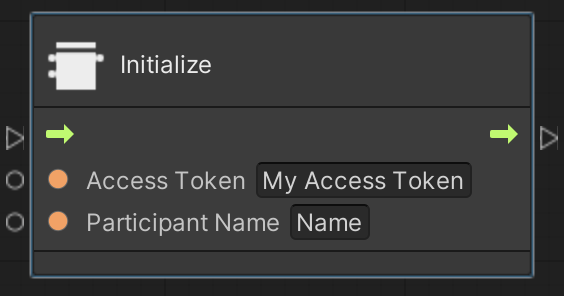
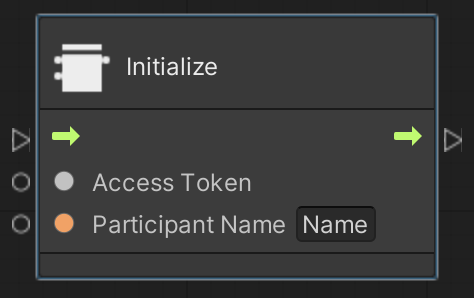
Modified GetToken and Initialize, Added set position and direction

Changed region(s): [[0.0, 0.0304, 1.0, 0.9426]]

diff --git a/docs/documentation/unity/visualscripting/nodes.md b/docs/documentation/unity/visualscripting/nodes.md
@@ -2,7 +2,7 @@
 
 Visual Scripting in Unity allows creating logic for virtual world applications using visual, node-based graphs without writing code. The Dolby.io Virtual World plugin is compatible with Unity Visual Scripting 2021. The plugin can be used with Visual Scripting and C# scripting at the same time. 
 
-Before using the plugin for visual scripting, make sure that you added the .NET SDK to Unity and initialized the SDK using the [Initializing](../unity.md#initialization) procedure.
+Before using the plugin for visual scripting, make sure that you added the .NET SDK to Unity and initialized the SDK using the [Initializing](../unity.md) procedure.
 
 ### Nodes
 
@@ -25,7 +25,7 @@ Initialize the SDK and connects to the Dolby.io platform. During onboarding and 
 
 | Name  | Direction | Type | Description  |
 |---|:---|:---|:---|
-| **Access Token** | Input | String or function| The [access token](xref:DolbyIO.Comms.DolbyIOSDK.InitAsync(System.String,DolbyIO.Comms.RefreshTokenCallBack)) provided by your backend server. Alternatively, pass in the output from the [GetToken](#gettoken) node.|
+| **Access Token** | Input | String or Function| The [access token](xref:DolbyIO.Comms.DolbyIOSDK.InitAsync(System.String,DolbyIO.Comms.RefreshTokenCallBack)) provided by your backend server, linked to the ouput of a String node. Alternatively, pass in the output from the [GetToken](#gettoken) node.|
 | **Participant Name** | Input | String | The [name](xref:DolbyIO.Comms.UserInfo.Name) of the local participant. |
 
 ---
@@ -35,14 +35,14 @@ A helper node that retrieves a Client Access Token directly from within the Unit
 
 >Using this node effectively distributes the permanent app credential with your Unity application which is not safe for production deployment. Follow our security best practice [here](https://docs.dolby.io/communications-apis/docs/guides-client-authentication) to setup a server through which you can acquire a temporary client access token. 
 <div style="text-align:left">
-    <img style="padding:25px 0" src="~/images/nodes/init.png" width="300px">
+    <img style="padding:25px 0" src="~/images/nodes/get-token.png" width="300px">
 </div>
 
 | Name  | Direction | Type | Description  |
 |---|:---|:---|:---|
 | **App Key** | Input | String| The app key from the Dolby.io dashboard. |
 | **App Secret** | Input | String | The app secret from the Dolby.io dashboard. |
-| **Token** | Output | String | The generated client access token, expires in 1 hour. |
+| **Token Action** | Output | System.Func<string> | A function that returns the access token. Can be linked to the initialize node. |
 
 ---
 ### Spatial Conference
@@ -83,32 +83,6 @@ Allows muting a participant. This node works for both local participant (e.g., m
 |---|:---|:---|:---|
 | **ParticipantId** | Input | String| The ID of the participant who should be muted. If the ID is not provided, the node mutes the local participant|
 | **Muted** | Input | Boolean | The required mute state.| 
-
----
-### Local Player Position
-
-Allows setting the position of the local player.
-<div style="text-align:left">
-    <img style="padding:25px 0" src="~/images/nodes/local-position.png" width="250px">
-</div>
-
-| Name  | Direction | Type | Description  |
-|---|:---|:---|:---|
-| **Position** | Input | Vector3| The [position](xref:DolbyIO.Comms.Services.ConferenceService.SetSpatialPositionAsync(System.String,System.Numerics.Vector3)) of the player.|
-| **Direction** | Input | Vector3 | The [direction](xref:DolbyIO.Comms.Services.ConferenceService.SetSpatialDirectionAsync(System.Numerics.Vector3)) that the player should be facing.| 
-
----
-### Remote Player Position
-
-Set the remote participant's spatial audio position for the local participant. This is only applicable when the spatial audio style was set as `individual` in the Spatial Conference node where each client needs to inform the server how they would like the platform to render the remote participant's audio for them.  
-<div style="text-align:left">
-    <img style="padding:25px 0" src="~/images/nodes/remote-position.png" width="250px">
-</div>
-
-| Name  | Direction | Type | Description  |
-|---|:---|:---|:---|
-| **Position** | Input | Vector3| The [position](xref:DolbyIO.Comms.Services.ConferenceService.SetSpatialPositionAsync(System.String,System.Numerics.Vector3)) of the player.|
-
 
 ---
 ### Get Participants
@@ -160,3 +134,39 @@ Configures active audio output as the specified device.
 | Name  | Direction | Type | Description  |
 |---|:---|:---|:---|
 | **Audio Device** | Input | Audio Device | The user preferred [AudioDevice](xref:DolbyIO.Comms.AudioDevice) for audio rendering.|
+
+---
+### Set Local Player Direction
+
+Allows setting the direction of the local player.
+<div style="text-align:left">
+    <img style="padding:25px 0" src="~/images/nodes/local-direction.png" width="220px">
+</div>
+
+| Name  | Direction | Type | Description  |
+|---|:---|:---|:---|
+| **Direction** | Input | Vector3 | The [direction](xref:DolbyIO.Comms.Services.ConferenceService.SetSpatialDirectionAsync(System.Numerics.Vector3)) that the player should be facing.| 
+
+---
+### Set Local Player Position
+
+Allows setting the position of the local player.
+<div style="text-align:left">
+    <img style="padding:25px 0" src="~/images/nodes/local-position.png" width="220px">
+</div>
+
+| Name  | Direction | Type | Description  |
+|---|:---|:---|:---|
+| **Position** | Input | Vector3| The [position](xref:DolbyIO.Comms.Services.ConferenceService.SetSpatialPositionAsync(System.String,System.Numerics.Vector3)) of the player.|
+
+---
+### Set Remote Player Position
+
+Set the remote participant's spatial audio position for the local participant. This is only applicable when the spatial audio style was set as `individual` in the Spatial Conference node where each client needs to inform the server how they would like the platform to render the remote participant's audio for them.  
+<div style="text-align:left">
+    <img style="padding:25px 0" src="~/images/nodes/remote-position.png" width="250px">
+</div>
+
+| Name  | Direction | Type | Description  |
+|---|:---|:---|:---|
+| **Position** | Input | Vector3| The [position](xref:DolbyIO.Comms.Services.ConferenceService.SetSpatialPositionAsync(System.String,System.Numerics.Vector3)) of the player.|
